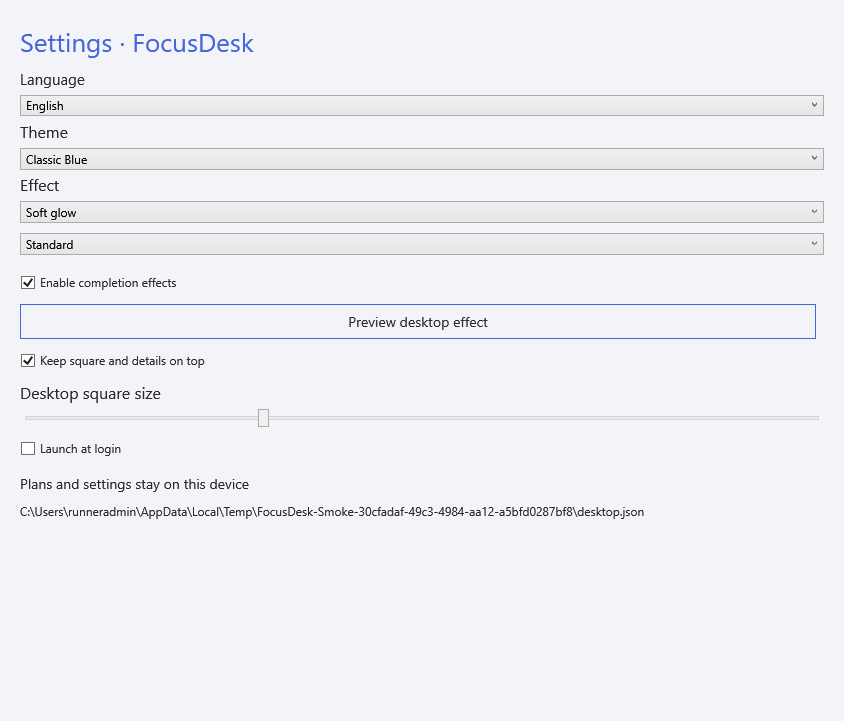
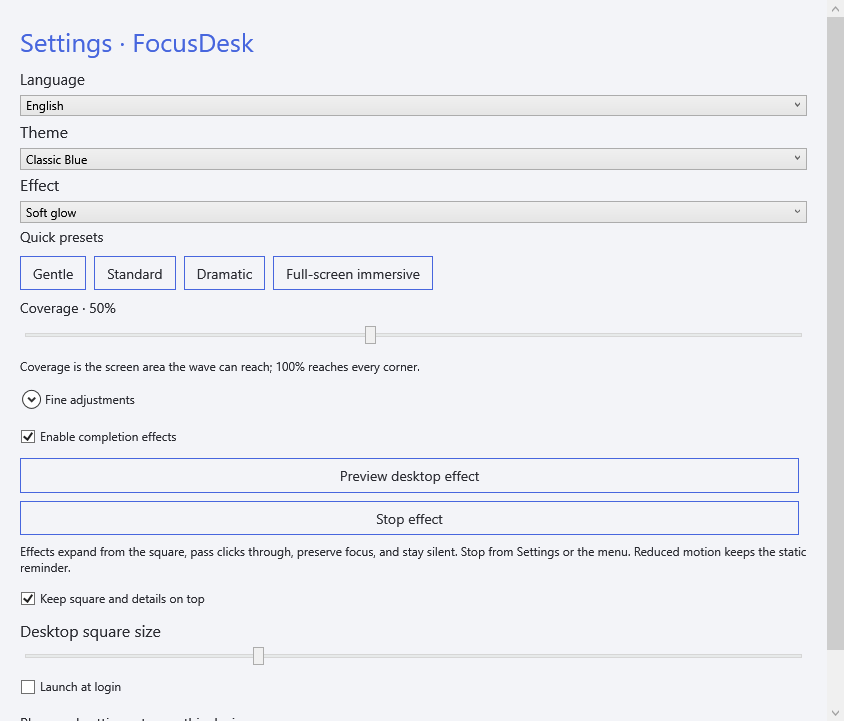
Refresh Windows screenshots and show both screen effect renderers

diff --git a/README.en.md b/README.en.md
@@ -65,7 +65,9 @@ Language changes translate the interface, not personal task or activity names. I
 
 ## Screen effects in 3.1
 
-![Actual effect renderer at 85% coverage](docs/screenshots/screen-effect-85.png)
+| macOS · 85% | Windows · 85% |
+|---|---|
+| ![macOS effect frame](docs/screenshots/screen-effect-85.png) | ![Windows effect frame](docs/screenshots/windows-effect-85.png) |
 
 Coverage measures the screen area reached by the expanding circle at its largest extent, including when the square sits in a corner. It does not mean that percentage of the screen is opaque. The animation has a brief origin glow, broad expanding bands with theme-specific particles, and an optional edge-light finish. Edge glow is part of the total duration and capped at 40% of it. Turning effects off immediately stops an active animation. The default target is the square’s monitor; All monitors adds a separate overlay to each display, starting from the nearest point to the square on other displays. No screen recording permission is needed.
 

diff --git a/README.md b/README.md
@@ -65,7 +65,9 @@
 
 ## 3.1 屏幕到时特效
 
-![85% 覆盖范围的真实特效渲染](docs/screenshots/screen-effect-85.png)
+| macOS · 85% | Windows · 85% |
+|---|---|
+| ![macOS effect frame](docs/screenshots/screen-effect-85.png) | ![Windows effect frame](docs/screenshots/windows-effect-85.png) |
 
 - **四种快捷预设：**轻柔 15%、标准 50%、夸张 85%、全屏沉浸 100%。旧版强度设置会迁移到对应预设。
 - **范围与浓度独立：**覆盖范围 10%–100%，按扩散圆与屏幕相交的实际面积计算；方块在角落也能达到对应范围。范围表示最终可达区域，不表示整块区域不透明。
